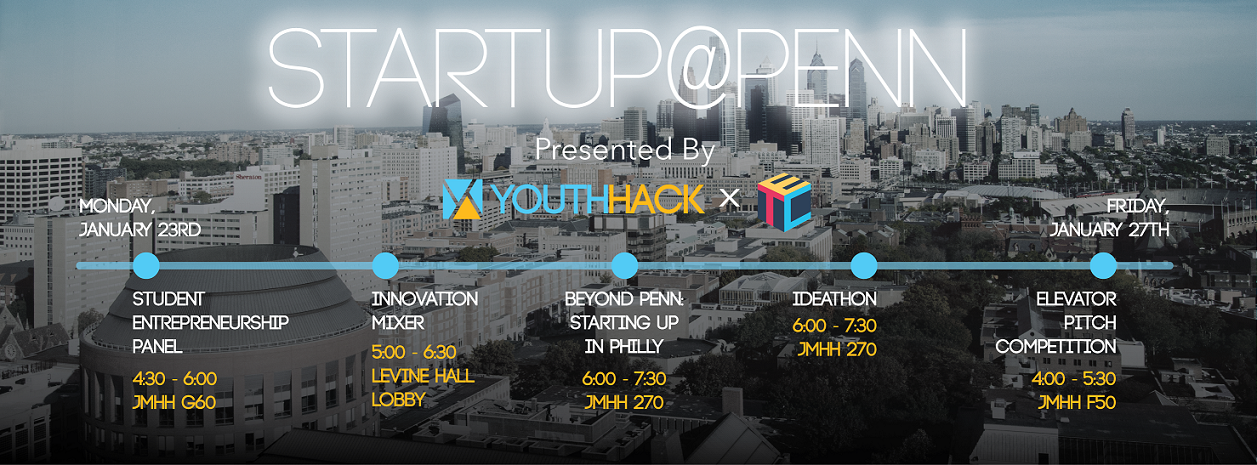
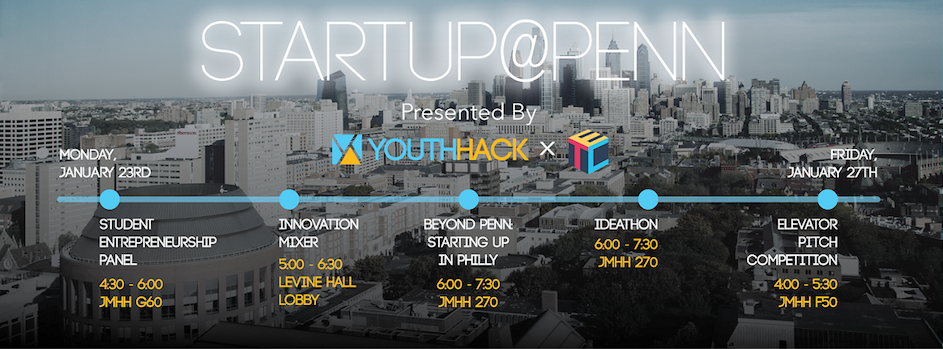
Resizing images

diff --git a/routes.js b/routes.js
@@ -18,16 +18,17 @@ sgMail.setApiKey(process.env.SENDGRID_API_KEY);
 
 // Homepage
 router.get('/', (req, res) => {
-  const formattedEducation = education.map(e => {
-    if (e.image) {
-      e.image = `/img/education/${e.image}`;
-    }
-    return e;
-  });
+  // const formattedEducation = education.map(e => {
+  //   if (e.image) {
+  //     const imgRoute = `/img/education/${e.image}`;
+  //     e.image = imgRoute;
+  //   }
+  //   return e;
+  // });
 
   res.render('home', {
     title: 'Cameron Cabo',
-    education: formattedEducation,
+    education,
     experiences,
     extracurriculars,
     isRootActive: true,

diff --git a/public/index.css b/public/index.css
@@ -144,6 +144,21 @@ a {
   .content .card#home .profile-picture {
     left: calc(50% - 4rem); } }
 
+.flex-container {
+  display: flex;
+  flex-direction: row; }
+  .flex-container .background-image {
+    height: auto;
+    background-repeat: no-repeat;
+    background-size: contain;
+    background-position: top;
+    width: 3rem;
+    max-width: 3rem;
+    flex: none;
+    margin-left: 1rem; }
+  .flex-container .flex {
+    flex: 1; }
+
 /**
  * Styling for the navigation of the app
  * On mobile and smaller screens, this is at the top

diff --git a/src/assets/scss/cards.scss b/src/assets/scss/cards.scss
@@ -94,3 +94,23 @@
     left: calc(50% - 4rem);
   }
 }
+
+.flex-container {
+  display: flex;
+  flex-direction: row;
+
+  .background-image {
+    height: auto;
+    background-repeat: no-repeat;
+    background-size: contain;
+    background-position: top;
+    width: 3rem;
+    max-width: 3rem;
+    flex: none;
+    margin-left: 1rem;
+  }
+
+  .flex {
+    flex: 1;
+  }
+}
